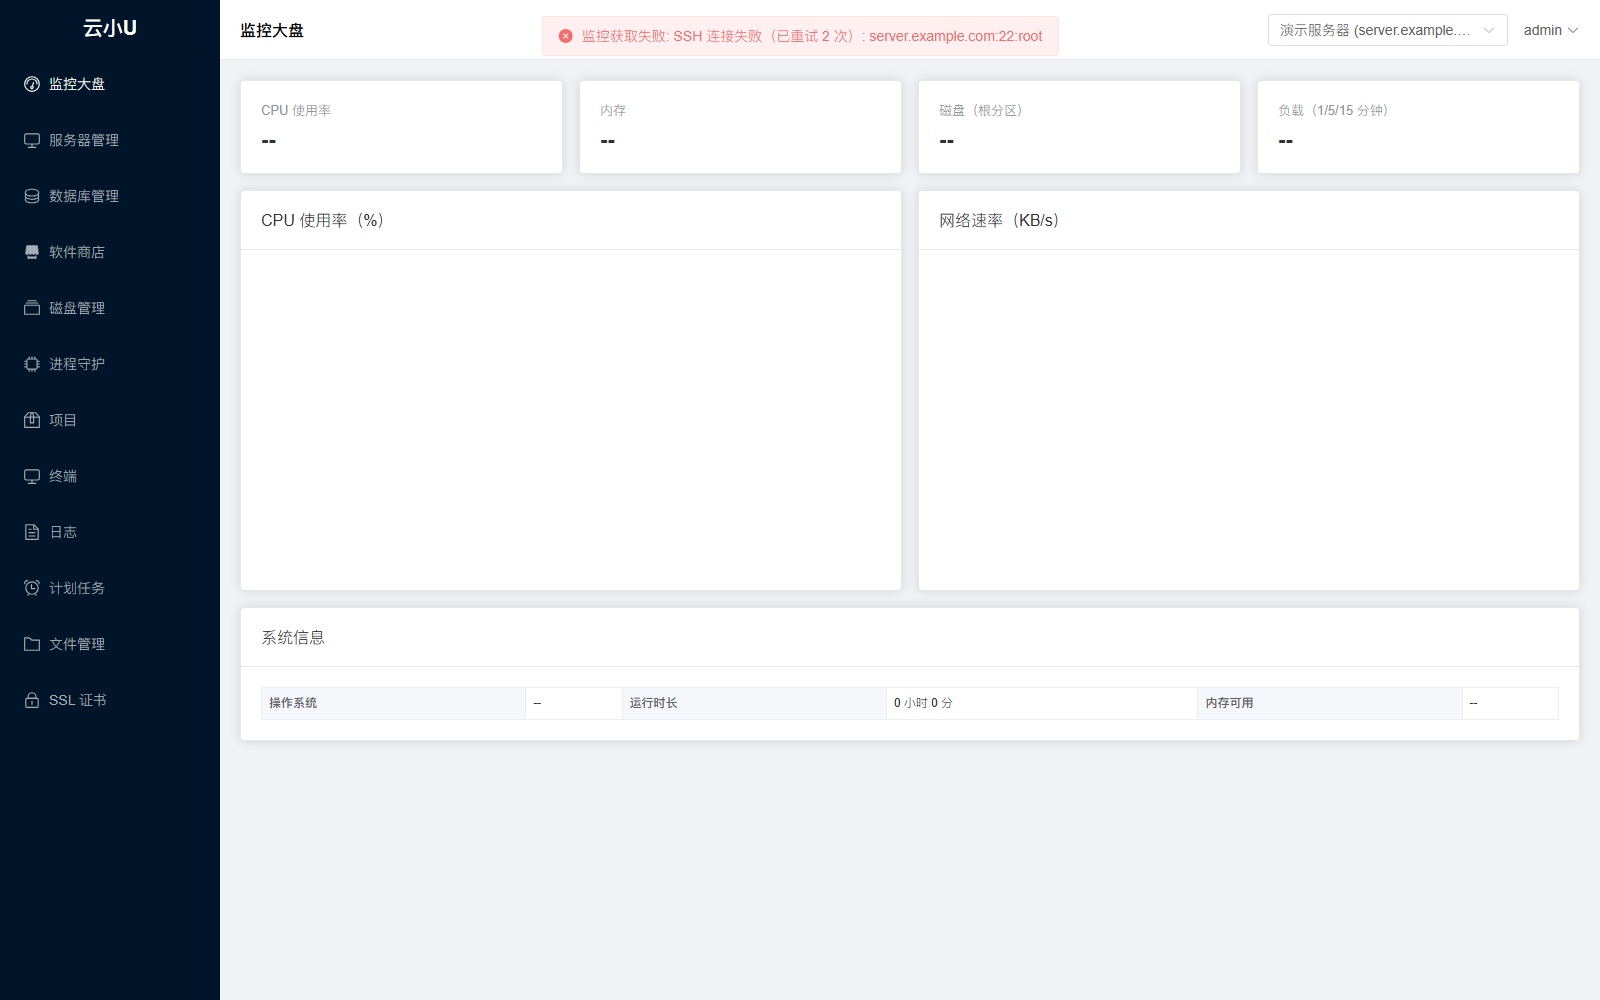
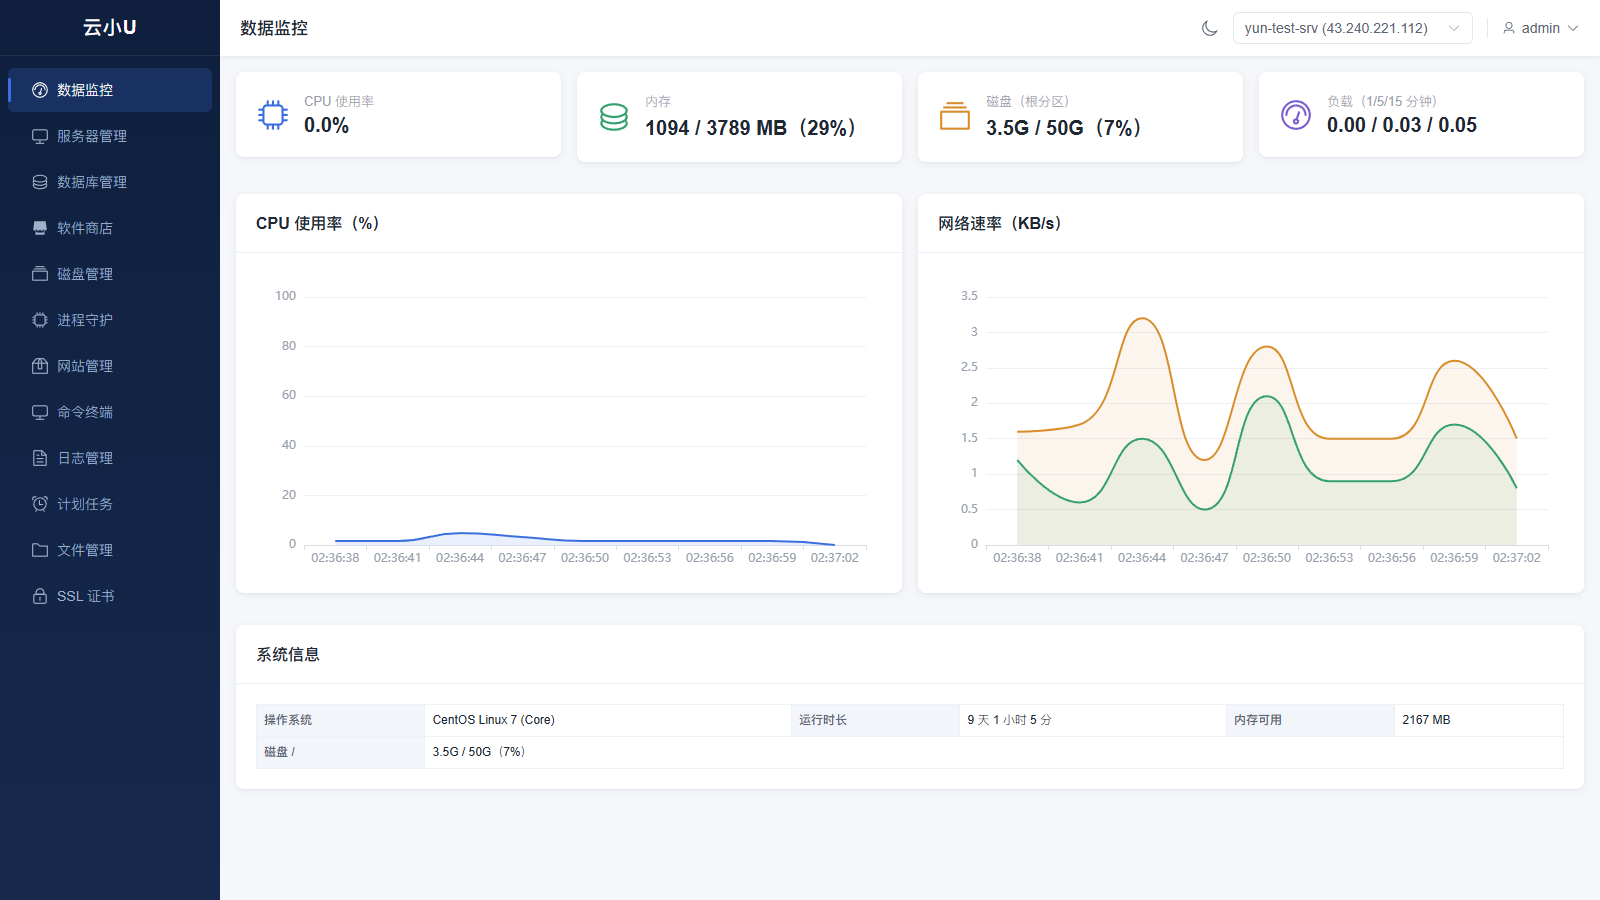
docs: README 截图更新为新界面；fix(web): 修复监控页图表不渲染

diff --git a/apps/web/src/views/dashboard/index.vue b/apps/web/src/views/dashboard/index.vue
@@ -80,7 +80,7 @@
 </template>
 
 <script setup lang="ts">
-import { computed, onBeforeUnmount, onMounted, ref, watch } from 'vue'
+import { computed, nextTick, onBeforeUnmount, onMounted, ref, watch } from 'vue'
 import * as echarts from 'echarts'
 import { Cpu, Coin, Files, Odometer } from '@element-plus/icons-vue'
 import { getMonitor, type MonitorData } from '@/api/monitor'
@@ -198,19 +198,37 @@ function onResize() {
   netChart?.resize()
 }
 
-onMounted(() => {
-  if (cpuChartEl.value) {
+function initCharts() {
+  if (!cpuChart && cpuChartEl.value) {
     cpuChart = echarts.init(cpuChartEl.value)
   }
-  if (netChartEl.value) {
+  if (!netChart && netChartEl.value) {
     netChart = echarts.init(netChartEl.value)
   }
+}
+
+let disposed = false
+
+onMounted(async () => {
+  // 服务器列表可能异步加载，v-else 分支此时未必渲染，需等 current 就绪后再初始化图表
+  if (!serverStore.current) {
+    await new Promise<void>((resolve) => {
+      const stop = watch(
+        () => serverStore.current,
+        (v) => { if (v) { stop(); resolve() } },
+      )
+    })
+    await nextTick()
+  }
+  if (disposed) return
+  initCharts()
   refresh()
   timer = window.setInterval(refresh, 3000)
   window.addEventListener('resize', onResize)
 })
 
 onBeforeUnmount(() => {
+  disposed = true
   if (timer) window.clearInterval(timer)
   window.removeEventListener('resize', onResize)
   cpuChart?.dispose()

diff --git a/README.md b/README.md
@@ -5,9 +5,9 @@
 ## 界面预览
 
 <p align="center">
-  <img src="docs/images/screenshot-dashboard.png" alt="监控大盘" width="90%" />
+  <img src="docs/images/screenshot-dashboard.png" alt="数据监控" width="90%" />
   <br />
-  <em>监控大盘：CPU / 内存 / 磁盘 / 网络实时图表</em>
+  <em>数据监控：CPU / 内存 / 磁盘 / 网络实时图表</em>
 </p>
 
 <p align="center">
@@ -19,7 +19,7 @@
 <p align="center">
   <img src="docs/images/screenshot-login.png" alt="登录页" width="90%" />
   <br />
-  <em>登录页</em>
+  <em>登录页：城市背景品牌区 + 登录表单</em>
 </p>
 
 ## 功能特性
